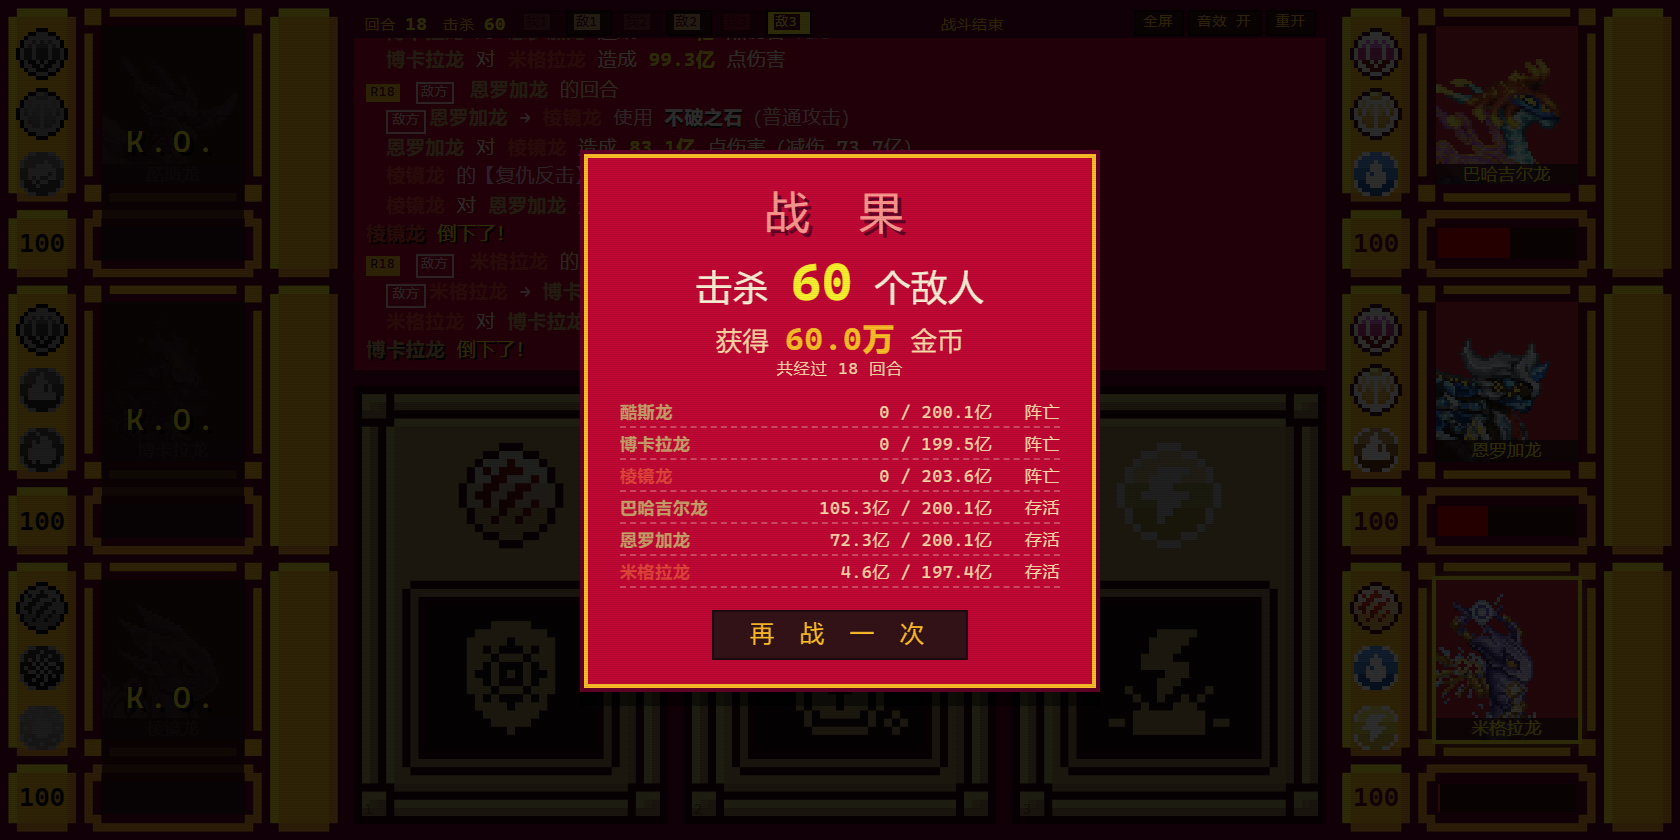
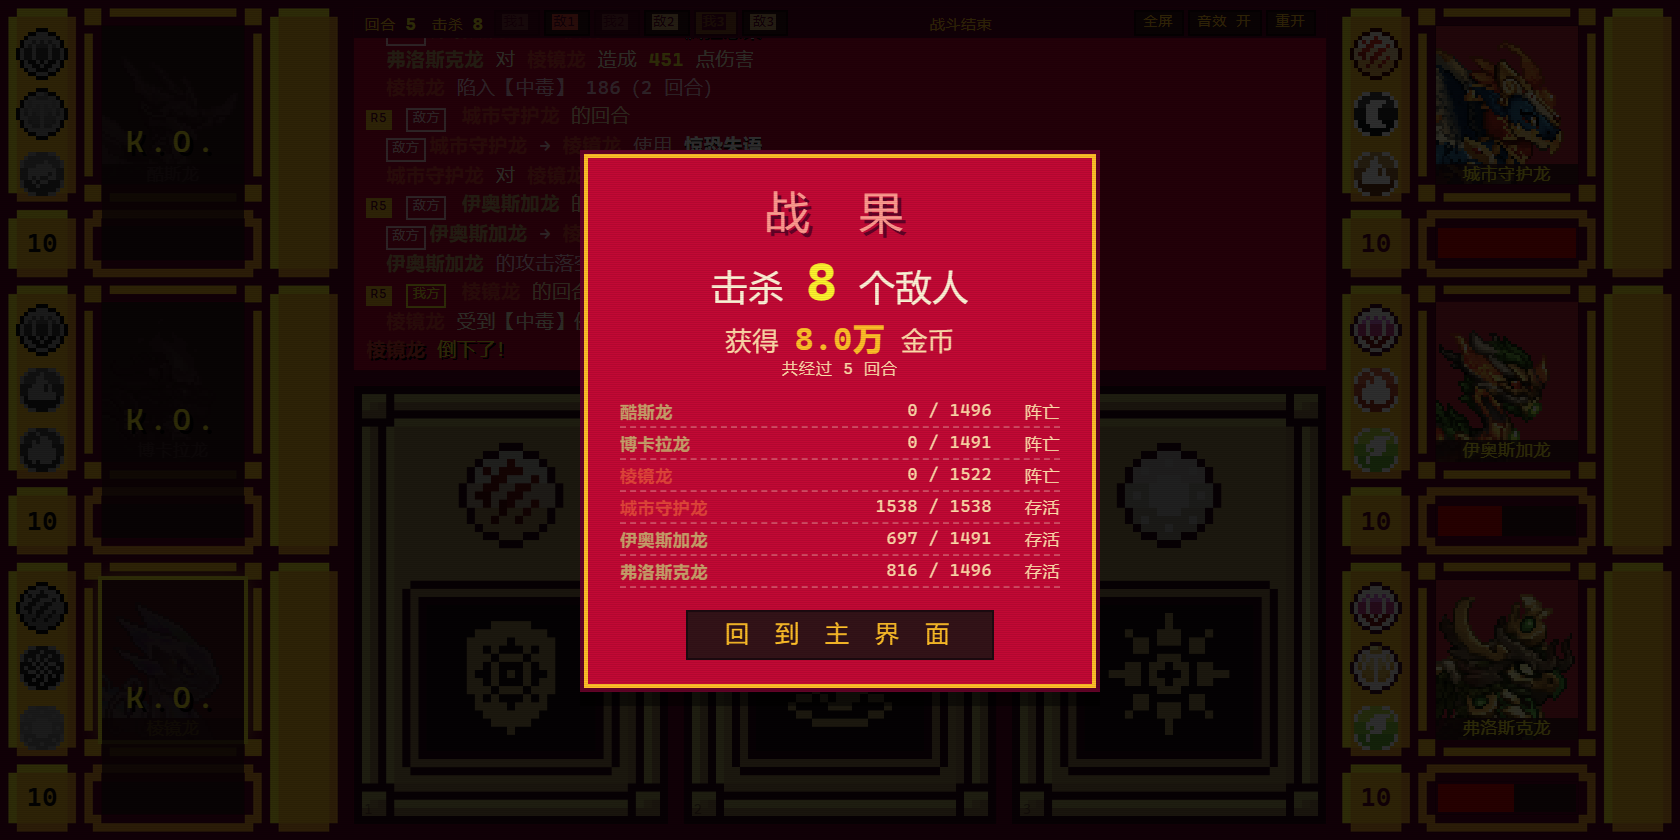
fix: 结算按钮改为「回到主界面」；燃烧殆尽真正驱散
- render.js：按钮文案「再战一次」-> 「回到主界面」，点击回主界面（UI.onExit）
- main.js：注入 UI.onExit = showMenu
- skills.js：buildSkills 漏拷 preOps，导致闪电「燃烧殆尽」的
  「伤害前先清除目标全部正面状态」从来没生效；补上后实测
  「酷斯龙 的 3 个正面状态被清除」

diff --git a/src/ui/render.js b/src/ui/render.js
@@ -410,14 +410,14 @@ const UI = (function () {
         '<div class="ov-reward">获得 <b>' + fmtNum(reward) + '</b> 金币</div>' +
         '<div class="ov-sub">共经过 ' + st.round + ' 回合</div>' +
         '<div class="ov-list">' + rows + '</div>' +
-        '<button type="button" class="px-btn big" id="ovRestart">再 战 一 次</button>' +
+        '<button type="button" class="px-btn big" id="ovExit">回 到 主 界 面</button>' +
       '</div>';
     E.overlay.classList.remove('hidden');
-    const btn = E.overlay.querySelector('#ovRestart');
+    const btn = E.overlay.querySelector('#ovExit');
     if (btn) {
       btn.addEventListener('click', () => {
         clearOverlay();
-        Battle.init();
+        if (UI.onExit) UI.onExit();
       });
     }
   }

diff --git a/src/data/skills.js b/src/data/skills.js
@@ -193,6 +193,7 @@ const SKILL_BY_ELEMENT = {};
       side: def.side,
       desc: def.desc,
       ops: def.ops,
+      preOps: def.preOps || [],      /* 伤害前的前置效果（燃烧殆尽用来先驱散） */
       hasDamage: hasDamage,
       dmgK: dmgK,
       iconUrl: (ELEMENTS[el] && ELEMENTS[el].iconUrl) || '',

diff --git a/src/main.js b/src/main.js
@@ -244,6 +244,9 @@
       }
     });
 
+    /* 战斗结算的「回到主界面」 */
+    UI.onExit = function () { showMenu(); };
+
     bindMenu();
     Guide.bind();
     Guide.onClose = showMenu;
